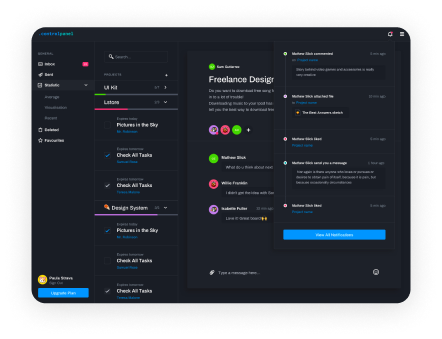
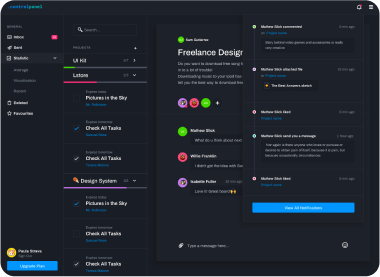
feat: change one of image in section content

diff --git a/styles/main.css b/styles/main.css
@@ -74,7 +74,7 @@
     flex-direction: column;
     align-items: center;
     justify-content: space-between;
-    height: 630px;
+    height: 500px;
     background: white;
     border-radius: 10px;
     padding: 40px 35px;
@@ -90,7 +90,7 @@
 
 .main__card h5 {
     margin: 0;
-    /* margin-top: 30px; */
+    margin-top: 30px;
     color: #5c5c5c;
     font-family: RobotoL, sans-serif;
     line-height: 24px;
@@ -98,24 +98,8 @@
     width: 270px;
 }
 
-/* .main__card button{
-    margin-top: 65px;
-}
-
-.main__card img{
-    margin-top: 50px;
-} */
-
-.first__card{
+.first__card {
     margin-right: 33px;
 }
-
-
-
-
-
-
-
-
 
 /* styling section content end */
